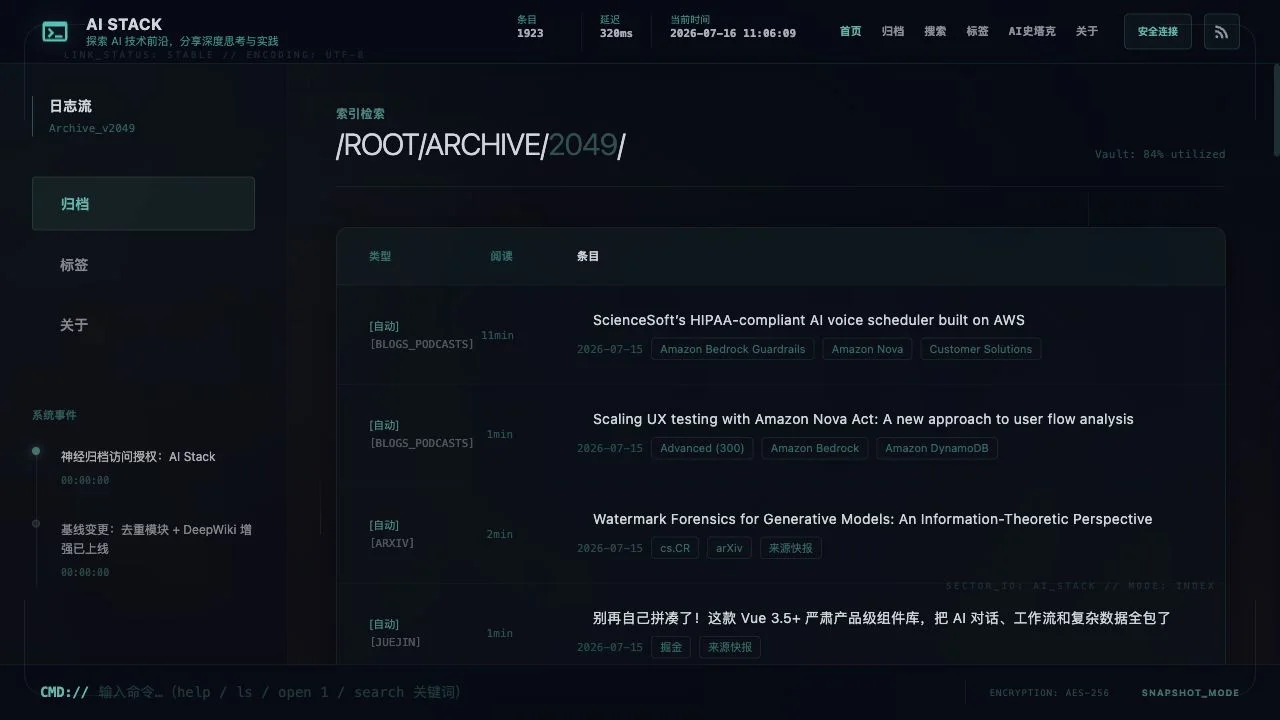
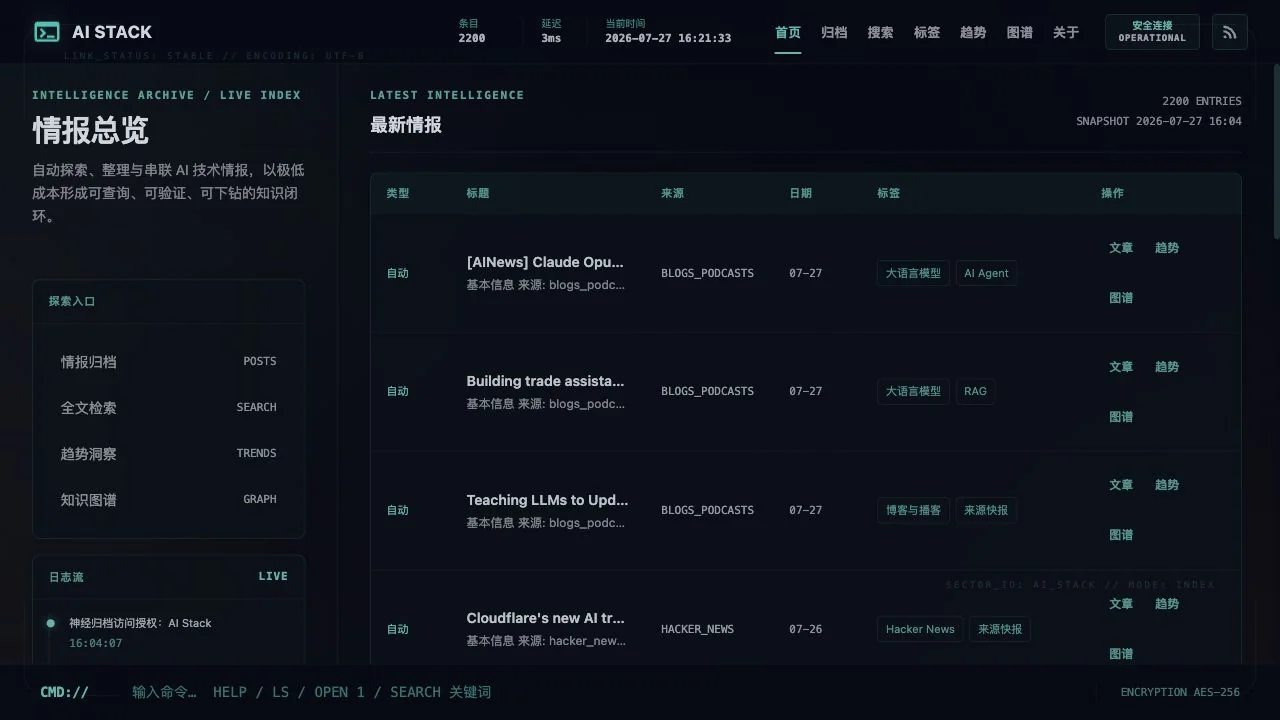
docs: refresh production README visuals (#110)
Refresh README screenshots from the latest validated release and fix the homepage snapshot clock.

diff --git a/blog/themes/terminal-theme/layouts/index.html b/blog/themes/terminal-theme/layouts/index.html
@@ -6,10 +6,13 @@
 </head>
 
 <body class="bg-deep-navy selection:bg-muted-teal selection:text-deep-navy font-display">
-    {{ $buildTime := .Site.Data.related.index.data_as_of | time.AsTime }}
     {{ $posts := where .Site.RegularPages "Type" "posts" }}
     {{ $posts = sort $posts "Date" "desc" }}
     {{ $latestPost := cond (gt (len $posts) 0) (index $posts 0) nil }}
+    {{ $buildTime := .Site.Home.Date }}
+    {{ if $latestPost }}
+        {{ $buildTime = $latestPost.Date }}
+    {{ end }}
 
     <div class="rain-container"></div>
     <div class="fog-container"></div>
@@ -60,12 +63,12 @@
                                 <li class="relative">
                                     <span class="absolute -left-[23px] top-1 size-2 rounded-full bg-primary shadow-[0_0_9px_rgba(77,182,172,0.5)]"></span>
                                     <p class="site-meta-text text-off-white/75">神经归档访问授权：{{ .Site.Params.author }}</p>
-                                    <time class="site-code-text mt-1 block text-primary/65">{{ $buildTime.Format "15:04:05" }}</time>
+                                    <time class="site-code-text mt-1 block text-primary/65">{{ if $latestPost }}{{ $buildTime.Format "15:04:05" }}{{ else }}N/A{{ end }}</time>
                                 </li>
                                 <li class="relative">
                                     <span class="absolute -left-[23px] top-1 size-2 rounded-full border border-muted-teal/30 bg-deep-navy"></span>
                                     <p class="site-meta-text text-off-white/65">数据管线：来源校验、去重、趋势与图谱索引已连接</p>
-                                    <time class="site-code-text mt-1 block text-off-white/55">{{ $buildTime.AddDate 0 0 -1 | time.Format "15:04:05" }}</time>
+                                    <time class="site-code-text mt-1 block text-off-white/55">{{ if $latestPost }}{{ $buildTime.AddDate 0 0 -1 | time.Format "15:04:05" }}{{ else }}N/A{{ end }}</time>
                                 </li>
                             </ol>
                         </div>
@@ -91,7 +94,7 @@
                         </div>
                         <div class="site-code-text text-right text-off-white/60">
                             <p>{{ len $posts }} ENTRIES</p>
-                            <p class="mt-1">SNAPSHOT {{ $buildTime.Format "2006-01-02 15:04" }}</p>
+                            <p class="mt-1">SNAPSHOT {{ if $latestPost }}{{ $buildTime.Format "2006-01-02 15:04" }}{{ else }}N/A{{ end }}</p>
                         </div>
                     </div>
 

diff --git a/tests/test_site_header_contract.py b/tests/test_site_header_contract.py
@@ -122,6 +122,19 @@ class SiteHeaderContractTest(unittest.TestCase):
         self.assertIn('.Date.Format "2006-01-02 15:04"', stats)
         self.assertNotIn('.Date.Format "15:04"', stats)
 
+    def test_home_snapshot_uses_the_latest_post_instead_of_missing_site_data(
+        self,
+    ) -> None:
+        source = (LAYOUTS / "index.html").read_text(encoding="utf-8")
+
+        self.assertNotIn(".Site.Data.related.index.data_as_of", source)
+        self.assertIn("$latestPost.Date", source)
+        self.assertIn(
+            'SNAPSHOT {{ if $latestPost }}{{ $buildTime.Format "2006-01-02 15:04" }}',
+            source,
+        )
+        self.assertIn("{{ else }}N/A{{ end }}", source)
+
     def test_telemetry_uses_shared_two_row_baseline_grid(self) -> None:
         css = (ROOT / "blog" / "static" / "css" / "style.css").read_text(
             encoding="utf-8"

diff --git a/tests/test_template_hardening.py b/tests/test_template_hardening.py
@@ -87,8 +87,10 @@ def test_visible_build_identifiers_use_the_content_clock_not_wall_time() -> None
     index = (LAYOUT_ROOT / "index.html").read_text(encoding="utf-8")
     about = (LAYOUT_ROOT / "about/single.html").read_text(encoding="utf-8")
 
+    assert "$latestPost.Date" in index
+    assert ".Site.Data.related.index.data_as_of" not in index
+    assert ".Site.Data.related.index.data_as_of | time.AsTime" in about
     for template in (index, about):
-        assert ".Site.Data.related.index.data_as_of | time.AsTime" in template
         assert "now." not in template
 
     assert '$buildTime.Format "15:04:05"' in index

diff --git a/README.md b/README.md
@@ -29,7 +29,7 @@
   <img src="./docs/assets/readme/graph-community.webp" alt="AI Stack 标签社区知识图谱真实界面" width="100%" />
 </a>
 
-<p align="center"><sub>真实生产界面 · 社区聚类、语义缩放、图层筛选与按需加载</sub></p>
+<p align="center"><sub>生产快照 · 2026-07-27 · 社区聚类、语义缩放、图层筛选与按需加载</sub></p>
 
 ## ⚡ 为什么是 AI Stack
 
@@ -71,7 +71,7 @@ flowchart LR
   <img src="./docs/assets/readme/graph-demo.gif" alt="AI Stack 动态场景知识图谱演示" width="100%" />
 </a>
 
-<p align="center"><sub>8.3 秒真实交互：技术总览 → 标签社区 → 搜索 → 节点邻域 → 详情联动</sub></p>
+<p align="center"><sub>8.3 秒生产交互快照 · 2026-07-27：技术总览 → 标签社区 → 搜索 → 节点邻域 → 详情联动</sub></p>
 
 ## 🛰 从信息洪流到可追溯洞察
 
@@ -89,7 +89,7 @@ flowchart LR
 <table>
   <tr>
     <td width="50%" valign="top"><a href="https://ai-stack.site/scenarios/"><img src="./docs/assets/readme/graph-overview.webp" alt="AI Stack 技术总览分层图谱" width="100%" /></a><br /><sub><strong>技术总览</strong> · 首屏只载入 69 个核心节点与 71 条关系。</sub></td>
-    <td width="50%" valign="top"><a href="https://ai-stack.site/scenarios/"><img src="./docs/assets/readme/graph-focus.webp" alt="AI Stack API 搜索与节点邻域详情" width="100%" /></a><br /><sub><strong>节点邻域</strong> · 搜索后只展开一跳强关系与真实指标。</sub></td>
+    <td width="50%" valign="top"><a href="https://ai-stack.site/scenarios/"><img src="./docs/assets/readme/graph-focus.webp" alt="AI Stack 搜索与节点邻域详情" width="100%" /></a><br /><sub><strong>节点邻域</strong> · 搜索后只展开一跳强关系与真实指标。</sub></td>
   </tr>
 </table>
 
@@ -107,7 +107,7 @@ flowchart LR
   <img src="./docs/assets/readme/trends-overview.webp" alt="AI Stack 趋势洞察工作台真实界面" width="100%" />
 </a>
 
-<p align="center"><sub>真实界面 · 24h / 7d / 30d 窗口、证据矩阵、评分解释、文章与图谱双通道下钻</sub></p>
+<p align="center"><sub>生产快照 · 2026-07-27 · 24h / 7d / 30d 窗口、证据矩阵、评分解释、文章与图谱双通道下钻</sub></p>
 
 ## ⚡ 60 秒开始
 
